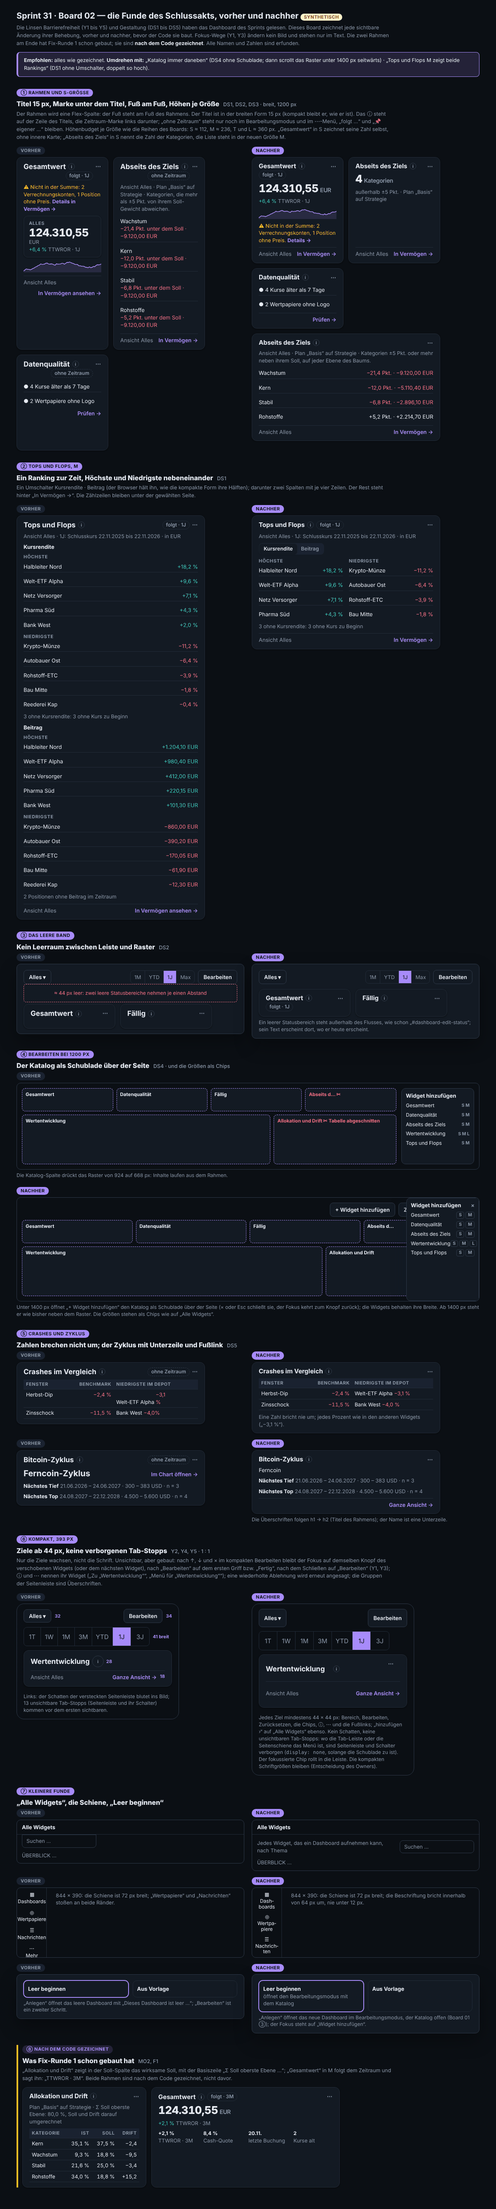
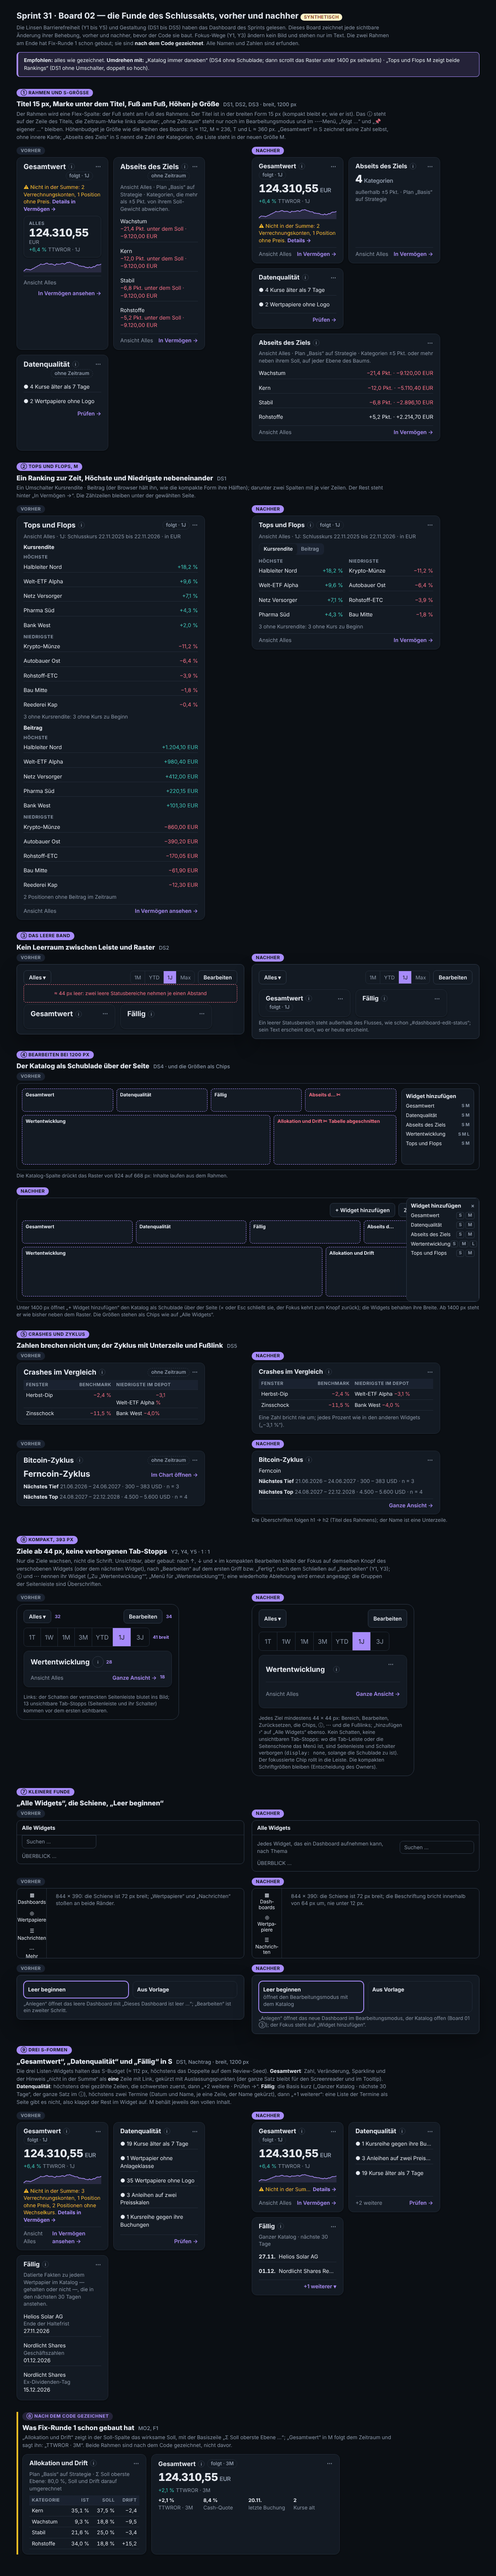
docs(design): board 02 ⑨, three S forms within their budget
The coordinator's follow-up on DS1: the width walk may not exempt
„Gesamtwert“, „Datenqualität“ and „Fällig“ at S by name, so their S forms
get their pass, drawn here before the code, before and after:

- „Gesamtwert“ S: the figure and its currency, the change line, the
  sparkline, and the note on what the total leaves out as one line with
  its link, cut with an ellipsis (the whole sentence stays for a screen
  reader and in the tooltip);
- „Datenqualität“ S: at most three counted lines, the most severe first,
  then „+2 weitere · Prüfen →“;
- „Fällig“ S: a short basis line („Ganzer Katalog · nächste 30 Tage“,
  the whole sentence in the ⓘ), at most two dated lines, the name cut,
  then „+1 weiterer“, which unfolds the rest in the widget: no screen
  lists the upcoming dates as a page.

M keeps the full content of each. Synthetic names and figures only.

diff --git a/_bmad-output/planning-artifacts/design-language/mockups/ux-design-2026-11-21-sprint31/02-closing-act.html b/_bmad-output/planning-artifacts/design-language/mockups/ux-design-2026-11-21-sprint31/02-closing-act.html
@@ -356,6 +356,10 @@ table.cp-classes th { font-size: 10px; letter-spacing: .05em; text-transform: up
 <section class="mock-board"><span class="mock-tag mock-tag--rec">⑦ Kleinere Funde</span><h2>„Alle Widgets“, die Schiene, „Leer beginnen“</h2>
 <div class="cl-pair"><div class="cl-col"><span class="mock-tag mock-tag--before">vorher</span><div class="cl-page" style="display:block;padding:0"><div class="cl-top">Alle Widgets</div><div style="padding:0 12px"><span class="cl-search" style="display:inline-block;border-top-left-radius:0;border-top-right-radius:0">Suchen …</span></div><div style="padding:10px 12px" class="cl-sub">ÜBERBLICK …</div></div></div><div class="cl-col"><span class="mock-tag mock-tag--rec">nachher</span><div class="cl-page" style="display:block;padding:0"><div class="cl-top">Alle Widgets</div><div style="display:flex;align-items:center;gap:12px;padding:12px"><span style="flex:1" class="cl-sub">Jedes Widget, das ein Dashboard aufnehmen kann, nach Thema</span><span class="cl-search">Suchen …</span></div><div style="padding:0 12px 10px" class="cl-sub">ÜBERBLICK …</div></div></div></div><div style="height:14px"></div><div class="cl-pair"><div class="cl-col"><span class="mock-tag mock-tag--before">vorher</span><div class="cl-page" style="height:170px;padding:0"><div class="cl-rail"><div>▦<span>Dashboards</span></div><div>◎<span>Wertpapiere</span></div><div>☰<span>Nachrichten</span></div><div>⋯<span>Mehr</span></div></div><div style="padding:10px" class="cl-sub">844 × 390: die Schiene ist 72 px breit; „Wertpapiere“ und „Nachrichten“ stoßen an beide Ränder.</div></div></div><div class="cl-col"><span class="mock-tag mock-tag--rec">nachher</span><div class="cl-page" style="height:170px;padding:0"><div class="cl-rail after"><div>▦<span>Dashboards</span></div><div>◎<span>Wertpapiere</span></div><div>☰<span>Nachrichten</span></div><div>⋯<span>Mehr</span></div></div><div style="padding:10px" class="cl-sub">844 × 390: die Schiene ist 72 px breit; die Beschriftung bricht innerhalb von 64 px um, nie unter 12 px.</div></div></div></div><div style="height:14px"></div><div class="cl-pair"><div class="cl-col"><span class="mock-tag mock-tag--before">vorher</span><div class="mock-frame"><div class="cl-choice"><div class="on"><b>Leer beginnen</b></div><div><b>Aus Vorlage</b></div></div><p class="cl-note">„Anlegen“ öffnet das leere Dashboard mit „Dieses Dashboard ist leer …“; „Bearbeiten“ ist ein zweiter Schritt.</p></div></div><div class="cl-col"><span class="mock-tag mock-tag--rec">nachher</span><div class="mock-frame"><div class="cl-choice"><div class="on"><b>Leer beginnen</b><div class="cl-sub">öffnet den Bearbeitungsmodus mit dem Katalog</div></div><div><b>Aus Vorlage</b></div></div><p class="cl-note">„Anlegen“ öffnet das neue Dashboard im Bearbeitungsmodus, der Katalog offen (Board 01 ③); der Fokus steht auf „Widget hinzufügen“.</p></div></div></div></section>
 
+<section class="mock-board"><span class="mock-tag mock-tag--rec">⑨ Drei S-Formen</span><h2>„Gesamtwert“, „Datenqualität“ und „Fällig“ in S <small>DS1, Nachtrag · breit, 1200 px</small></h2>
+<p class="mock-note">Die drei Listen-Widgets halten das S-Budget (≈ 112 px, höchstens das Doppelte auf dem Review-Seed). <b>Gesamtwert</b>: Zahl, Veränderung, Sparkline und der Hinweis „nicht in der Summe“ als <b>eine</b> Zeile mit Link, gekürzt mit Auslassungspunkten (der ganze Satz bleibt für den Screenreader und im Tooltip). <b>Datenqualität</b>: höchstens drei gezählte Zeilen, die schwersten zuerst, dann „+2 weitere · Prüfen →“. <b>Fällig</b>: die Basis kurz („Ganzer Katalog · nächste 30 Tage“, der ganze Satz im ⓘ), höchstens zwei Termine (Datum und Name, je eine Zeile, der Name gekürzt), dann „+1 weiterer“: eine Liste der Termine als Seite gibt es nicht, also klappt der Rest im Widget auf. M behält jeweils den vollen Inhalt.</p>
+<div class="cl-pair"><div class="cl-col"><span class="mock-tag mock-tag--before">vorher</span><div class="cl-row"><div class="cl-w s"><div class="cl-h"><div class="t"><h4>Gesamtwert</h4><span class="cl-i">i</span><span class="cl-tag under">folgt · 1J</span></div><span class="cl-more">⋯</span></div><div class="cl-fig">124.310,55<small>EUR</small></div><div class="cl-sub"><span class="pos">+6,4 %</span> TTWROR · 1J</div><svg viewBox="0 0 190 26" height="26" preserveAspectRatio="none"><path class="wd-area" d="M0.0,23.0L3.2,20.6L6.4,18.3L9.7,19.0L12.9,19.1L16.1,20.1L19.3,19.1L22.5,17.3L25.8,16.3L29.0,14.0L32.2,13.0L35.4,10.9L38.6,9.9L41.9,7.2L45.1,8.2L48.3,8.0L51.5,7.4L54.7,5.6L58.0,5.4L61.2,7.4L64.4,7.6L67.6,7.0L70.8,7.4L74.1,9.1L77.3,9.8L80.5,6.8L83.7,7.7L86.9,7.5L90.2,7.4L93.4,5.9L96.6,5.9L99.8,7.7L103.1,5.8L106.3,3.8L109.5,4.0L112.7,3.0L115.9,4.5L119.2,5.8L122.4,6.5L125.6,8.2L128.8,8.2L132.0,8.5L135.3,11.4L138.5,11.2L141.7,12.3L144.9,12.4L148.1,12.6L151.4,14.5L154.6,14.7L157.8,15.6L161.0,13.5L164.2,15.3L167.5,14.7L170.7,12.7L173.9,13.4L177.1,10.7L180.3,9.0L183.6,9.3L186.8,8.7L190.0,7.3L190,26L0,26Z"/><path class="wd-line" d="M0.0,23.0L3.2,20.6L6.4,18.3L9.7,19.0L12.9,19.1L16.1,20.1L19.3,19.1L22.5,17.3L25.8,16.3L29.0,14.0L32.2,13.0L35.4,10.9L38.6,9.9L41.9,7.2L45.1,8.2L48.3,8.0L51.5,7.4L54.7,5.6L58.0,5.4L61.2,7.4L64.4,7.6L67.6,7.0L70.8,7.4L74.1,9.1L77.3,9.8L80.5,6.8L83.7,7.7L86.9,7.5L90.2,7.4L93.4,5.9L96.6,5.9L99.8,7.7L103.1,5.8L106.3,3.8L109.5,4.0L112.7,3.0L115.9,4.5L119.2,5.8L122.4,6.5L125.6,8.2L128.8,8.2L132.0,8.5L135.3,11.4L138.5,11.2L141.7,12.3L144.9,12.4L148.1,12.6L151.4,14.5L154.6,14.7L157.8,15.6L161.0,13.5L164.2,15.3L167.5,14.7L170.7,12.7L173.9,13.4L177.1,10.7L180.3,9.0L183.6,9.3L186.8,8.7L190.0,7.3"/></svg><div class="cl-warn">⚠ Nicht in der Summe: 3 Verrechnungskonten, 1 Position ohne Preis, 2 Positionen ohne Wechselkurs. <b style="color:var(--color-accent)">Details in Vermögen →</b></div><div class="cl-foot"><span>Ansicht Alles</span><a>In Vermögen ansehen →</a></div></div><div class="cl-w s"><div class="cl-h"><div class="t"><h4>Datenqualität</h4><span class="cl-i">i</span></div><span class="cl-more">⋯</span></div><ul class="cl-list"><li>● 19 Kurse älter als 7 Tage</li><li>● 1 Wertpapier ohne Anlageklasse</li><li>● 35 Wertpapiere ohne Logo</li><li>● 3 Anleihen auf zwei Preisskalen</li><li>● 1 Kursreihe gegen ihre Buchungen</li></ul><div class="cl-foot"><span></span><a>Prüfen →</a></div></div><div class="cl-w s"><div class="cl-h"><div class="t"><h4>Fällig</h4><span class="cl-i">i</span></div><span class="cl-more">⋯</span></div><div class="cl-sub">Datierte Fakten zu jedem Wertpapier im Katalog — gehalten oder nicht —, die in den nächsten 30 Tagen anstehen.</div><ul class="cl-list"><li style="display:block">Helios Solar AG<div class="cl-sub">Ende der Haltefrist</div><div>27.11.2026</div></li><li style="display:block">Nordlicht Shares<div class="cl-sub">Geschäftszahlen</div><div>01.12.2026</div></li><li style="display:block">Nordlicht Shares<div class="cl-sub">Ex-Dividenden-Tag</div><div>15.12.2026</div></li></ul></div></div></div><div class="cl-col"><span class="mock-tag mock-tag--rec">nachher</span><div class="cl-row"><div class="cl-w s budget-s"><div class="cl-h"><div class="t"><h4>Gesamtwert</h4><span class="cl-i">i</span><span class="cl-tag under">folgt · 1J</span></div><span class="cl-more">⋯</span></div><div class="cl-fig">124.310,55<small>EUR</small></div><div class="cl-sub"><span class="pos">+6,4 %</span> TTWROR · 1J</div><svg viewBox="0 0 190 22" height="22" preserveAspectRatio="none"><path class="wd-area" d="M0.0,19.0L3.2,17.1L6.4,15.2L9.7,15.8L12.9,15.9L16.1,16.7L19.3,15.9L22.5,14.4L25.8,13.6L29.0,11.8L32.2,11.0L35.4,9.3L38.6,8.5L41.9,6.4L45.1,7.2L48.3,7.0L51.5,6.6L54.7,5.1L58.0,4.9L61.2,6.5L64.4,6.7L67.6,6.2L70.8,6.6L74.1,7.9L77.3,8.4L80.5,6.0L83.7,6.8L86.9,6.6L90.2,6.5L93.4,5.3L96.6,5.3L99.8,6.8L103.1,5.3L106.3,3.6L109.5,3.8L112.7,3.0L115.9,4.2L119.2,5.3L122.4,5.8L125.6,7.2L128.8,7.2L132.0,7.4L135.3,9.7L138.5,9.6L141.7,10.4L144.9,10.5L148.1,10.7L151.4,12.2L154.6,12.4L157.8,13.1L161.0,11.4L164.2,12.9L167.5,12.4L170.7,10.8L173.9,11.3L177.1,9.2L180.3,7.8L183.6,8.0L186.8,7.5L190.0,6.4L190,22L0,22Z"/><path class="wd-line" d="M0.0,19.0L3.2,17.1L6.4,15.2L9.7,15.8L12.9,15.9L16.1,16.7L19.3,15.9L22.5,14.4L25.8,13.6L29.0,11.8L32.2,11.0L35.4,9.3L38.6,8.5L41.9,6.4L45.1,7.2L48.3,7.0L51.5,6.6L54.7,5.1L58.0,4.9L61.2,6.5L64.4,6.7L67.6,6.2L70.8,6.6L74.1,7.9L77.3,8.4L80.5,6.0L83.7,6.8L86.9,6.6L90.2,6.5L93.4,5.3L96.6,5.3L99.8,6.8L103.1,5.3L106.3,3.6L109.5,3.8L112.7,3.0L115.9,4.2L119.2,5.3L122.4,5.8L125.6,7.2L128.8,7.2L132.0,7.4L135.3,9.7L138.5,9.6L141.7,10.4L144.9,10.5L148.1,10.7L151.4,12.2L154.6,12.4L157.8,13.1L161.0,11.4L164.2,12.9L167.5,12.4L170.7,10.8L173.9,11.3L177.1,9.2L180.3,7.8L183.6,8.0L186.8,7.5L190.0,6.4"/></svg><div class="cl-warn" style="display:flex;gap:4px;white-space:nowrap"><span style="overflow:hidden;text-overflow:ellipsis">⚠ Nicht in der Summe: 3 Verrechnungskonten, 1 Position …</span><b style="color:var(--color-accent)">Details →</b></div><div class="cl-foot"><span>Ansicht Alles</span><a>In Vermögen →</a></div></div><div class="cl-w s budget-s"><div class="cl-h"><div class="t"><h4>Datenqualität</h4><span class="cl-i">i</span></div><span class="cl-more">⋯</span></div><ul class="cl-list"><li style="display:block;white-space:nowrap;overflow:hidden;text-overflow:ellipsis">● 1 Kursreihe gegen ihre Buchungen</li><li style="display:block;white-space:nowrap;overflow:hidden;text-overflow:ellipsis">● 3 Anleihen auf zwei Preisskalen</li><li style="display:block;white-space:nowrap;overflow:hidden;text-overflow:ellipsis">● 19 Kurse älter als 7 Tage</li></ul><div class="cl-foot"><span>+2 weitere</span><a>Prüfen →</a></div></div><div class="cl-w s budget-s"><div class="cl-h"><div class="t"><h4>Fällig</h4><span class="cl-i">i</span></div><span class="cl-more">⋯</span></div><div class="cl-sub">Ganzer Katalog · nächste 30 Tage</div><ul class="cl-list"><li style="justify-content:flex-start;white-space:nowrap"><b style="font-variant-numeric:tabular-nums">27.11.</b><span style="overflow:hidden;text-overflow:ellipsis">Helios Solar AG</span></li><li style="justify-content:flex-start;white-space:nowrap"><b style="font-variant-numeric:tabular-nums">01.12.</b><span style="overflow:hidden;text-overflow:ellipsis">Nordlicht Shares Registered …</span></li></ul><div class="cl-foot"><span></span><a>+1 weiterer ▾</a></div></div></div></div></div></section>
+
 <section class="mock-board cl-drawn-after"><span class="mock-tag mock-tag--alt">⑧ Nach dem Code gezeichnet</span><h2>Was Fix-Runde 1 schon gebaut hat <small>MO2, F1</small></h2>
 <p class="mock-note">„Allokation und Drift“ zeigt in der Soll-Spalte das wirksame Soll, mit der Basiszeile „Σ Soll oberste Ebene …“; „Gesamtwert“ in M folgt dem Zeitraum und sagt ihn: „TTWROR · 3M“. Beide Rahmen sind nach dem Code gezeichnet, nicht davor.</p>
 <div class="cl-row"><div class="cl-w t"><div class="cl-h"><div class="t"><h4>Allokation und Drift</h4><span class="cl-i">i</span></div><span class="cl-more">⋯</span></div><div class="cl-sub">Plan „Basis“ auf Strategie · Σ Soll oberste Ebene: 80,0 %, Soll und Drift darauf umgerechnet</div><table class="cl-table"><tr><th>Kategorie</th><th class="num">Ist</th><th class="num">Soll</th><th class="num">Drift</th></tr><tr><td>Kern</td><td class="num">35,1 %</td><td class="num">37,5 %</td><td class="num">−2,4</td></tr><tr><td>Wachstum</td><td class="num">9,3 %</td><td class="num">18,8 %</td><td class="num">−9,5</td></tr><tr><td>Stabil</td><td class="num">21,6 %</td><td class="num">25,0 %</td><td class="num">−3,4</td></tr><tr><td>Rohstoffe</td><td class="num">34,0 %</td><td class="num">18,8 %</td><td class="num">+15,2</td></tr></table></div><div class="cl-w m"><div class="cl-h"><div class="t"><h4>Gesamtwert</h4><span class="cl-i">i</span><span class="cl-tag under">folgt · 3M</span></div><span class="cl-more">⋯</span></div><div class="cl-fig">124.310,55<small>EUR</small></div><div class="cl-sub"><span class="pos">+2,1 %</span> TTWROR · 3M</div><div class="cl-two" style="grid-template-columns:repeat(4,1fr);font-size:12px"><div><b>+2,1 %</b><div class="cl-sub">TTWROR · 3M</div></div><div><b>8,4 %</b><div class="cl-sub">Cash-Quote</div></div><div><b>20.11.</b><div class="cl-sub">letzte Buchung</div></div><div><b>2</b><div class="cl-sub">Kurse alt</div></div></div></div></div></section>

diff --git a/_bmad-output/planning-artifacts/design-language/mockups/ux-design-2026-11-21-sprint31/board02.js b/_bmad-output/planning-artifacts/design-language/mockups/ux-design-2026-11-21-sprint31/board02.js
@@ -143,6 +143,14 @@ module.exports.board02 = function board02(I) {
   const leerBefore = `<div class="mock-frame"><div class="cl-choice"><div class="on"><b>Leer beginnen</b></div><div><b>Aus Vorlage</b></div></div><p class="cl-note">„Anlegen“ öffnet das leere Dashboard mit „Dieses Dashboard ist leer …“; „Bearbeiten“ ist ein zweiter Schritt.</p></div>`;
   const leerAfter = `<div class="mock-frame"><div class="cl-choice"><div class="on"><b>Leer beginnen</b><div class="cl-sub">öffnet den Bearbeitungsmodus mit dem Katalog</div></div><div><b>Aus Vorlage</b></div></div><p class="cl-note">„Anlegen“ öffnet das neue Dashboard im Bearbeitungsmodus, der Katalog offen (Board 01 ③); der Fokus steht auf „Widget hinzufügen“.</p></div>`;
 
+  // ---- ⑨ the S forms of three list widgets (the coordinator's follow-up) ----
+  const totalS1 = `<div class="cl-w s">${headAfter('Gesamtwert', 'folgt · 1J')}<div class="cl-fig">124.310,55<small>EUR</small></div><div class="cl-sub"><span class="pos">+6,4 %</span> TTWROR · 1J</div>${sp(190, 26)}<div class="cl-warn">⚠ Nicht in der Summe: 3 Verrechnungskonten, 1 Position ohne Preis, 2 Positionen ohne Wechselkurs. <b style="color:var(--color-accent)">Details in Vermögen →</b></div><div class="cl-foot"><span>Ansicht Alles</span><a>In Vermögen ansehen →</a></div></div>`;
+  const totalS2 = `<div class="cl-w s budget-s">${headAfter('Gesamtwert', 'folgt · 1J')}<div class="cl-fig">124.310,55<small>EUR</small></div><div class="cl-sub"><span class="pos">+6,4 %</span> TTWROR · 1J</div>${sp(190, 22)}<div class="cl-warn" style="display:flex;gap:4px;white-space:nowrap"><span style="overflow:hidden;text-overflow:ellipsis">⚠ Nicht in der Summe: 3 Verrechnungskonten, 1 Position …</span><b style="color:var(--color-accent)">Details →</b></div><div class="cl-foot"><span>Ansicht Alles</span><a>In Vermögen →</a></div></div>`;
+  const dqS1 = `<div class="cl-w s">${headAfter('Datenqualität')}<ul class="cl-list">${['19 Kurse älter als 7 Tage', '1 Wertpapier ohne Anlageklasse', '35 Wertpapiere ohne Logo', '3 Anleihen auf zwei Preisskalen', '1 Kursreihe gegen ihre Buchungen'].map((t) => `<li>● ${t}</li>`).join('')}</ul><div class="cl-foot"><span></span><a>Prüfen →</a></div></div>`;
+  const dqS2 = `<div class="cl-w s budget-s">${headAfter('Datenqualität')}<ul class="cl-list">${['1 Kursreihe gegen ihre Buchungen', '3 Anleihen auf zwei Preisskalen', '19 Kurse älter als 7 Tage'].map((t) => `<li style="display:block;white-space:nowrap;overflow:hidden;text-overflow:ellipsis">● ${t}</li>`).join('')}</ul><div class="cl-foot"><span>+2 weitere</span><a>Prüfen →</a></div></div>`;
+  const dueS1 = `<div class="cl-w s">${headAfter('Fällig')}<div class="cl-sub">Datierte Fakten zu jedem Wertpapier im Katalog — gehalten oder nicht —, die in den nächsten 30 Tagen anstehen.</div><ul class="cl-list">${[['Helios Solar AG', 'Ende der Haltefrist', '27.11.2026'], ['Nordlicht Shares', 'Geschäftszahlen', '01.12.2026'], ['Nordlicht Shares', 'Ex-Dividenden-Tag', '15.12.2026']].map(([n, k, d]) => `<li style="display:block">${n}<div class="cl-sub">${k}</div><div>${d}</div></li>`).join('')}</ul></div>`;
+  const dueS2 = `<div class="cl-w s budget-s">${headAfter('Fällig')}<div class="cl-sub">Ganzer Katalog · nächste 30 Tage</div><ul class="cl-list">${[['27.11.', 'Helios Solar AG'], ['01.12.', 'Nordlicht Shares Registered …']].map(([d, n]) => `<li style="justify-content:flex-start;white-space:nowrap"><b style="font-variant-numeric:tabular-nums">${d}</b><span style="overflow:hidden;text-overflow:ellipsis">${n}</span></li>`).join('')}</ul><div class="cl-foot"><span></span><a>+1 weiterer ▾</a></div></div>`;
+
   // ---- drawn after the code: fix batch 1 ----
   const driftAfter = `<div class="cl-w t">${headAfter('Allokation und Drift')}<div class="cl-sub">Plan „Basis“ auf Strategie · Σ Soll oberste Ebene: 80,0 %, Soll und Drift darauf umgerechnet</div><table class="cl-table"><tr><th>Kategorie</th><th class="num">Ist</th><th class="num">Soll</th><th class="num">Drift</th></tr>${[['Kern', '35,1', '37,5', '−2,4'], ['Wachstum', '9,3', '18,8', '−9,5'], ['Stabil', '21,6', '25,0', '−3,4'], ['Rohstoffe', '34,0', '18,8', '+15,2']].map((r) => `<tr><td>${r[0]}</td><td class="num">${r[1]} %</td><td class="num">${r[2]} %</td><td class="num">${r[3]}</td></tr>`).join('')}</table></div>`;
   const totalM = `<div class="cl-w m">${headAfter('Gesamtwert', 'folgt · 3M')}<div class="cl-fig">124.310,55<small>EUR</small></div><div class="cl-sub"><span class="pos">+2,1 %</span> TTWROR · 3M</div><div class="cl-two" style="grid-template-columns:repeat(4,1fr);font-size:12px"><div><b>+2,1 %</b><div class="cl-sub">TTWROR · 3M</div></div><div><b>8,4 %</b><div class="cl-sub">Cash-Quote</div></div><div><b>20.11.</b><div class="cl-sub">letzte Buchung</div></div><div><b>2</b><div class="cl-sub">Kurse alt</div></div></div></div>`;
@@ -175,6 +183,10 @@ ${pair(phoneBefore, phoneAfter)}</section>
 
 <section class="mock-board"><span class="mock-tag mock-tag--rec">⑦ Kleinere Funde</span><h2>„Alle Widgets“, die Schiene, „Leer beginnen“</h2>
 ${pair(widgetsBefore, widgetsAfter)}<div style="height:14px"></div>${pair(rail(false), rail(true))}<div style="height:14px"></div>${pair(leerBefore, leerAfter)}</section>
+
+<section class="mock-board"><span class="mock-tag mock-tag--rec">⑨ Drei S-Formen</span><h2>„Gesamtwert“, „Datenqualität“ und „Fällig“ in S <small>DS1, Nachtrag · breit, 1200 px</small></h2>
+<p class="mock-note">Die drei Listen-Widgets halten das S-Budget (≈ 112 px, höchstens das Doppelte auf dem Review-Seed). <b>Gesamtwert</b>: Zahl, Veränderung, Sparkline und der Hinweis „nicht in der Summe“ als <b>eine</b> Zeile mit Link, gekürzt mit Auslassungspunkten (der ganze Satz bleibt für den Screenreader und im Tooltip). <b>Datenqualität</b>: höchstens drei gezählte Zeilen, die schwersten zuerst, dann „+2 weitere · Prüfen →“. <b>Fällig</b>: die Basis kurz („Ganzer Katalog · nächste 30 Tage“, der ganze Satz im ⓘ), höchstens zwei Termine (Datum und Name, je eine Zeile, der Name gekürzt), dann „+1 weiterer“: eine Liste der Termine als Seite gibt es nicht, also klappt der Rest im Widget auf. M behält jeweils den vollen Inhalt.</p>
+${pair(`<div class="cl-row">${totalS1}${dqS1}${dueS1}</div>`, `<div class="cl-row">${totalS2}${dqS2}${dueS2}</div>`)}</section>
 
 <section class="mock-board cl-drawn-after"><span class="mock-tag mock-tag--alt">⑧ Nach dem Code gezeichnet</span><h2>Was Fix-Runde 1 schon gebaut hat <small>MO2, F1</small></h2>
 <p class="mock-note">„Allokation und Drift“ zeigt in der Soll-Spalte das wirksame Soll, mit der Basiszeile „Σ Soll oberste Ebene …“; „Gesamtwert“ in M folgt dem Zeitraum und sagt ihn: „TTWROR · 3M“. Beide Rahmen sind nach dem Code gezeichnet, nicht davor.</p>

diff --git a/_bmad-output/planning-artifacts/design-language/mockups/ux-design-2026-11-21-sprint31/README.md b/_bmad-output/planning-artifacts/design-language/mockups/ux-design-2026-11-21-sprint31/README.md
@@ -9,7 +9,7 @@ transitional in it.
 | File | What it is |
 |---|---|
 | `01-first-slice.html` → `01-first-slice--light.png`, `--dark.png` | ① A fresh instance: the template „Überblick“ read-only with „Anpassen“, in the transitional menu (Dashboards; Entdecken with Wealth until its sections are widgets, Securities, News, „Alle Widgets“; Pflege at the foot), with the slice's eleven widgets and the period above them. ② „Alle Widgets“, the catalogue page: what Sprint 31 builds, and, dashed, what comes with each screen's pass. ③ „Neues Dashboard“: empty or from a template. ④ The compact tab bar and its „Mehr“ sheet at 393 pt, 1 : 1. |
-| `02-closing-act.html` → `02-closing-act--light.png`, `--dark.png` | The closing act's accessibility (Y1 to Y5) and design (DS1 to DS5) findings on the dashboard, each visible change before and after, drawn before the code builds it: ① the frame (title 15 px in the wide form, the ⓘ on the title's line, the period tag under it, „ohne Zeitraum“ only in the edit mode and the ⋯ menu, the footer at the frame's foot, the height budgets S ≈ 112, M ≈ 236, T and L ≈ 360 px), „Gesamtwert“ at S drawing its figure itself, „Abseits des Ziels“ at S as a count and at the new size M as the list; ② „Tops und Flops“ at M, one ranking at a time; ③ no blank band under the bar; ④ the edit mode at 1200 px with the catalogue as a drawer; ⑤ the crash figures unbroken and the cycle widget's sub-line and footer link; ⑥ the compact class's 44 px targets and no hidden tab stops; ⑦ „Alle Widgets“' search, the short-wide rail's labels, „Leer beginnen“. ⑧ holds two changes fix batch 1 had already built — „Allokation und Drift“'s effective target with the basis line „Σ Soll oberste Ebene …“ and „Gesamtwert“ at M following the period („TTWROR · 3M“): **drawn after the code**, not before it. |
+| `02-closing-act.html` → `02-closing-act--light.png`, `--dark.png` | The closing act's accessibility (Y1 to Y5) and design (DS1 to DS5) findings on the dashboard, each visible change before and after, drawn before the code builds it: ① the frame (title 15 px in the wide form, the ⓘ on the title's line, the period tag under it, „ohne Zeitraum“ only in the edit mode and the ⋯ menu, the footer at the frame's foot, the height budgets S ≈ 112, M ≈ 236, T and L ≈ 360 px), „Gesamtwert“ at S drawing its figure itself, „Abseits des Ziels“ at S as a count and at the new size M as the list; ② „Tops und Flops“ at M, one ranking at a time; ③ no blank band under the bar; ④ the edit mode at 1200 px with the catalogue as a drawer; ⑤ the crash figures unbroken and the cycle widget's sub-line and footer link; ⑥ the compact class's 44 px targets and no hidden tab stops; ⑦ „Alle Widgets“' search, the short-wide rail's labels, „Leer beginnen“; ⑨ (added before its code, the coordinator's follow-up) the S forms of „Gesamtwert“ (the note one line), „Datenqualität“ (three counted lines, „+n weitere · Prüfen →“) and „Fällig“ (a short basis, two dated lines, the rest unfolding in the widget). ⑧ holds two changes fix batch 1 had already built — „Allokation und Drift“'s effective target with the basis line „Σ Soll oberste Ebene …“ and „Gesamtwert“ at M following the period („TTWROR · 3M“): **drawn after the code**, not before it. |
 | `build.js` | Writes the boards; it reuses the widgets and the page shell of the I56 idea board's `build.js`. Board 02's frames are in `board02.js`. |
 | `render.js` | Renders them to PNG at 1x, light and dark, reduced to 256 colours. |
 
